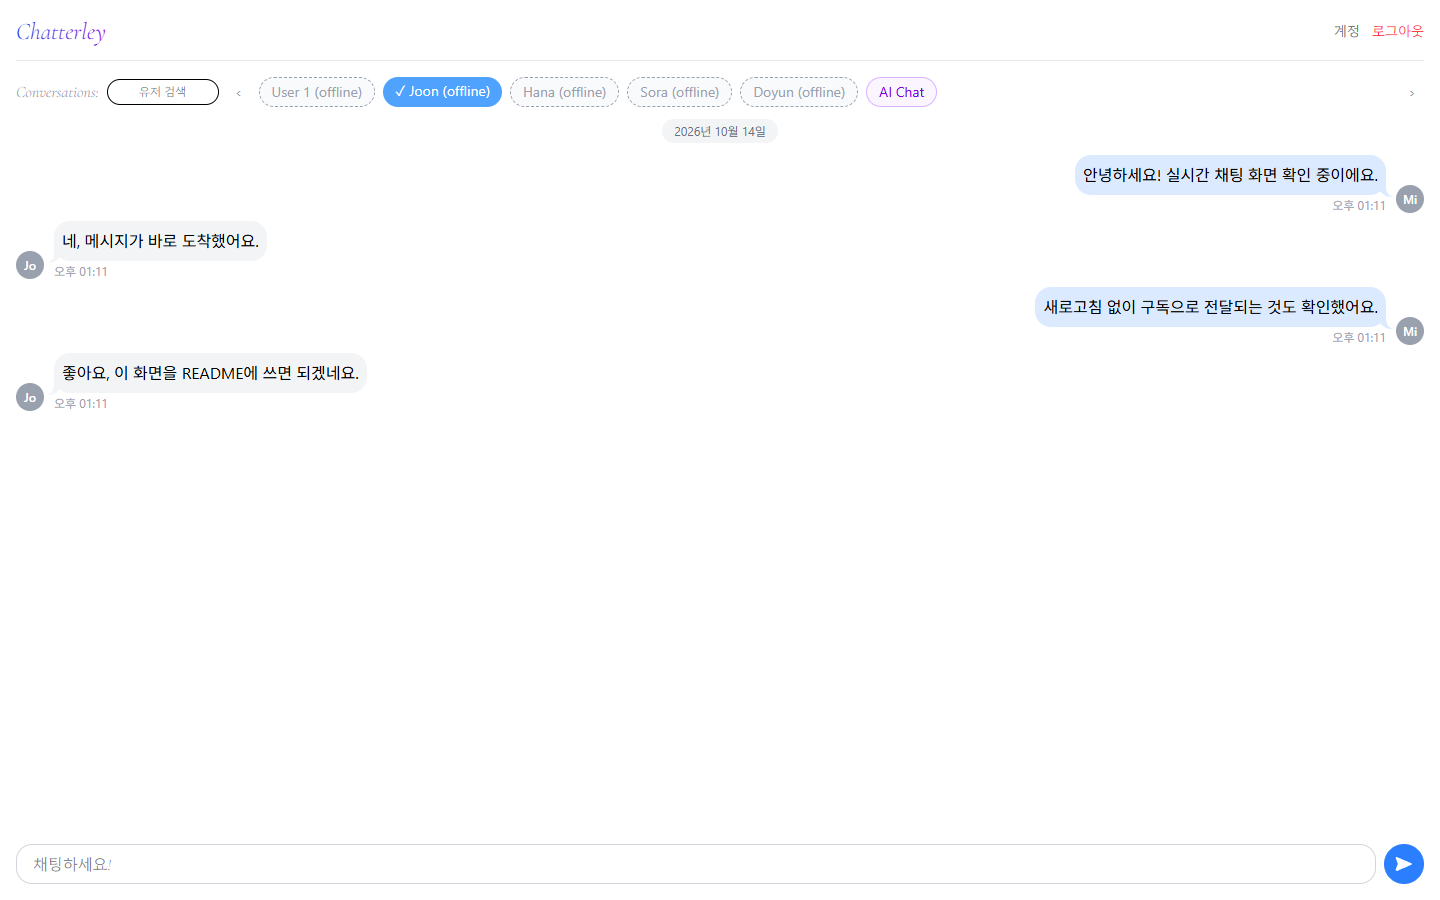
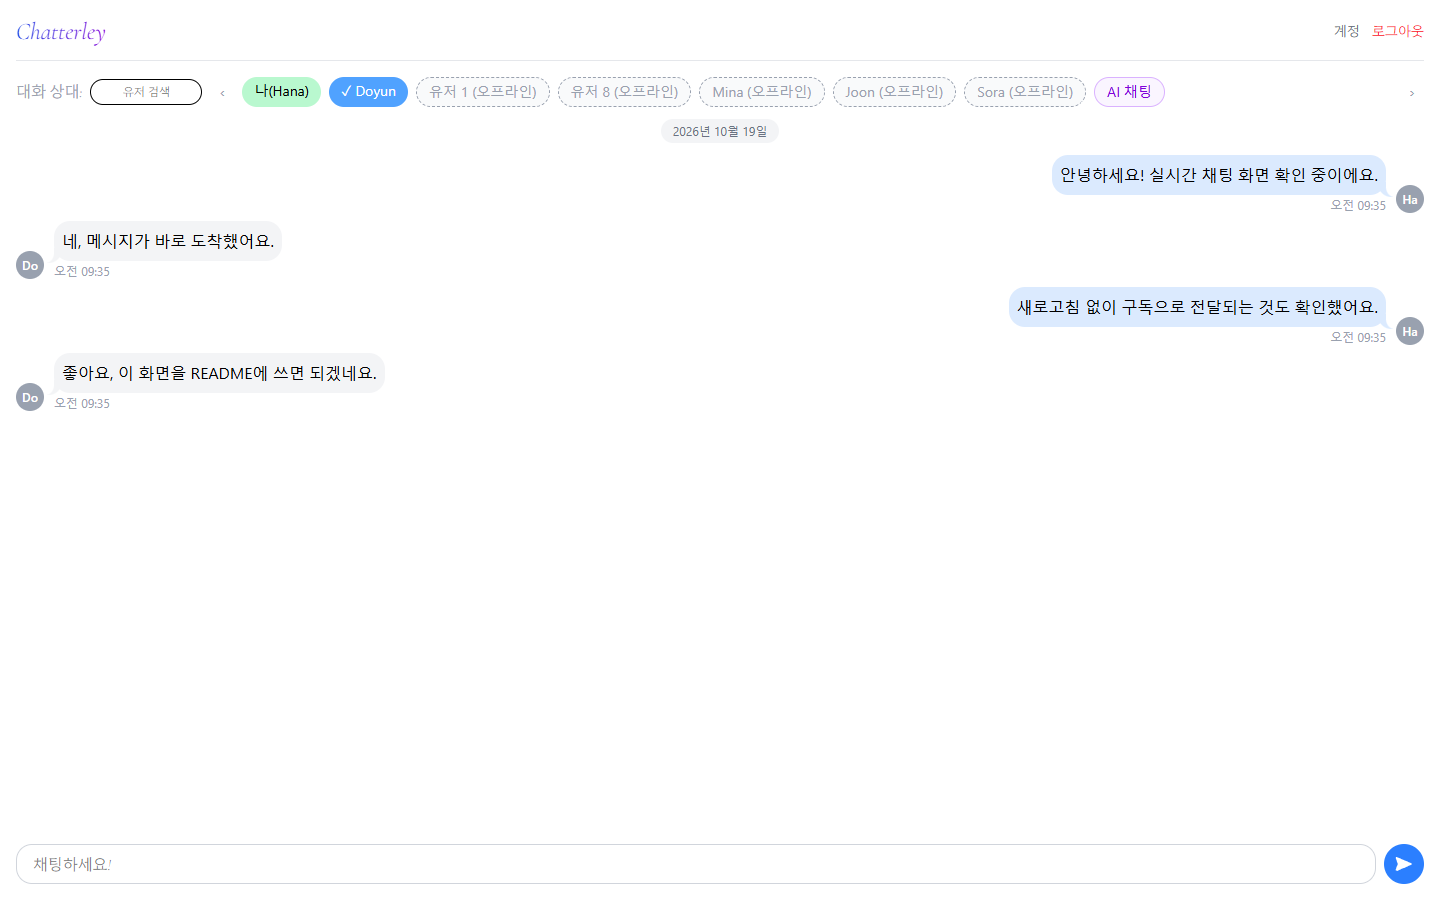
Docs: UI 한글 통일 반영해 스크린샷 5장과 GIF 재촬영, README 서술 정정
로그인(01), 채팅(02), AI 채팅(04), admin 대시보드(06)·사용자 패널(07)과 실시간 전달 GIF를 현재 UI(전체 한국어,
배너의 나(이름)/(오프라인)/유저 N, AI 이름 라벨 "Chattey AI")로 다시 촬영함. 03·05는 코드 변경이 없어 유지함.
앱이 방금 보낸 메시지와 받은 메시지의 시각을 다른 기준으로 표시하므로 촬영 브라우저의 시간대를 UTC로 고정했고
README에 그 사실을 밝힘. "재촬영 예정" 문장은 현재 상태로 정정함.

diff --git a/README.ko.md b/README.ko.md
@@ -35,7 +35,7 @@
 ## 스크린샷
 로컬 스택(backend, Postgres, Redis, Vite 개발 서버)에서 라이트 테마, 가로 1440px로 촬영함.
 현재 호스팅은 중단한 상태([호스팅 상태](#호스팅-상태) 참고)라 배포 환경에서는 확인하지 않음.
-계정과 메시지는 앱의 실제 API로 만든 일회용 데모 데이터임. 앱에 언어 전환 기능이 없어 영/한 README가 같은 이미지를 씀. 현재 UI는 전체가 한국어이지만 이 캡처는 그 변경 이전에 찍은 것이라, 로그인과 admin 화면 캡처에는 이전 영어 문구가 남아 있으며 재촬영 예정임. 이미지를 누르면 원본이 열림.
+계정과 메시지는 앱의 실제 API로 만든 일회용 데모 데이터임. 앱에 언어 전환 기능이 없어 영/한 README가 같은 이미지를 씀. UI는 전체가 한국어임. 시각이 보이는 캡처는 브라우저 시간대를 UTC로 고정해 찍어 메시지·로그 시각이 UTC 기준으로 표시됨. 이미지를 누르면 원본이 열림.
 
 [![두 브라우저 창을 나란히 놓고 한쪽에서 보낸 메시지가 새로고침 없이 다른 쪽에 도착하는 모습](docs/images/demo-realtime-chat.gif)](docs/images/demo-realtime-chat.gif)<br>**실시간 전달** — 데모 계정 두 개를 나란히 띄워, 메시지가 새로고침 없이 `receiveMessage` GraphQL 구독으로 도착하는 모습. 메시지 시각은 UTC 기준임(촬영 시 브라우저 시간대를 고정함).
 

diff --git a/README.md b/README.md
@@ -36,7 +36,7 @@ Two real incidents hit during development — a live infrastructure security exp
 Captured on a local stack (backend, Postgres, Redis, Vite dev servers), light theme, 1440 px wide.
 Hosting is currently stopped (see [Hosting Status](#hosting-status)), so none of this was checked on a
 deployed environment. Accounts and messages are throwaway demo data created through the app's own API.
-The app has no language switch, so both READMEs use the same images. The UI is now Korean throughout, but these captures predate that change: the sign-in and admin screenshots still show the earlier English labels and are pending re-capture. Click an image to open the full-size file.
+The app has no language switch, so both READMEs use the same images. The UI is Korean throughout. Captures that show times were taken with the browser time zone fixed to UTC, so message and log times are UTC. Click an image to open the full-size file.
 
 [![Two browser windows side by side: a message typed in one window appears in the other without a reload](docs/images/demo-realtime-chat.gif)](docs/images/demo-realtime-chat.gif)<br>**Live delivery** — two demo accounts side by side; messages arrive without a reload through the `receiveMessage` GraphQL subscription. Message times are shown in UTC (the browser time zone was fixed for the recording).
 
